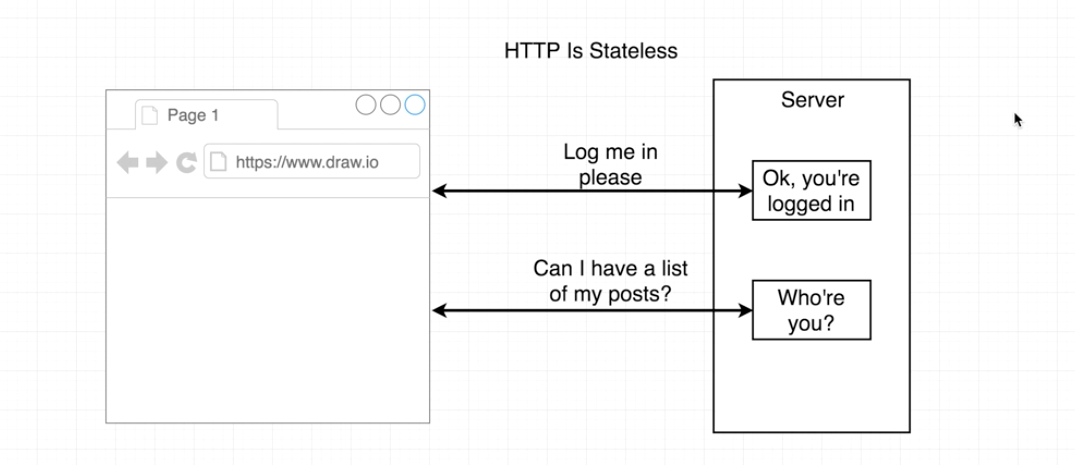
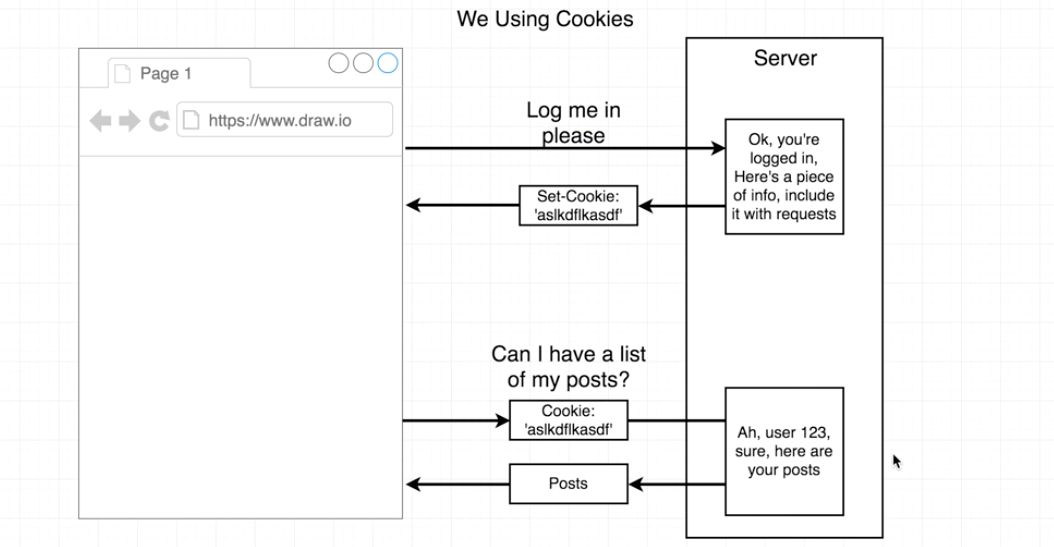
.gitignore updated

diff --git a/notes/03-adding-mongodb.md b/notes/03-adding-mongodb.md
@@ -94,6 +94,8 @@ require("./routes/authRoutes")(app);
 
 After getting the accessToken from Google, let's figure out what it really means to authenticate the user.
 
-We communicate between our browser and our Express by HTTP request.
+We communicate between our browser and our Express by HTTP request. By default, information btw requests are not shared. The token is the proof that we are the right person who made the original request. We are going to use cookie-based authentication.
 
 ![01](./images/03/03-01.png "01")
+
+When we made the initial request, the response will have a header `'Set-Cookie'`, with the value which can uniquely identify the user. The browser will then store it in the browser's memory. The cookie will be automatically appended to any following request to the server.
